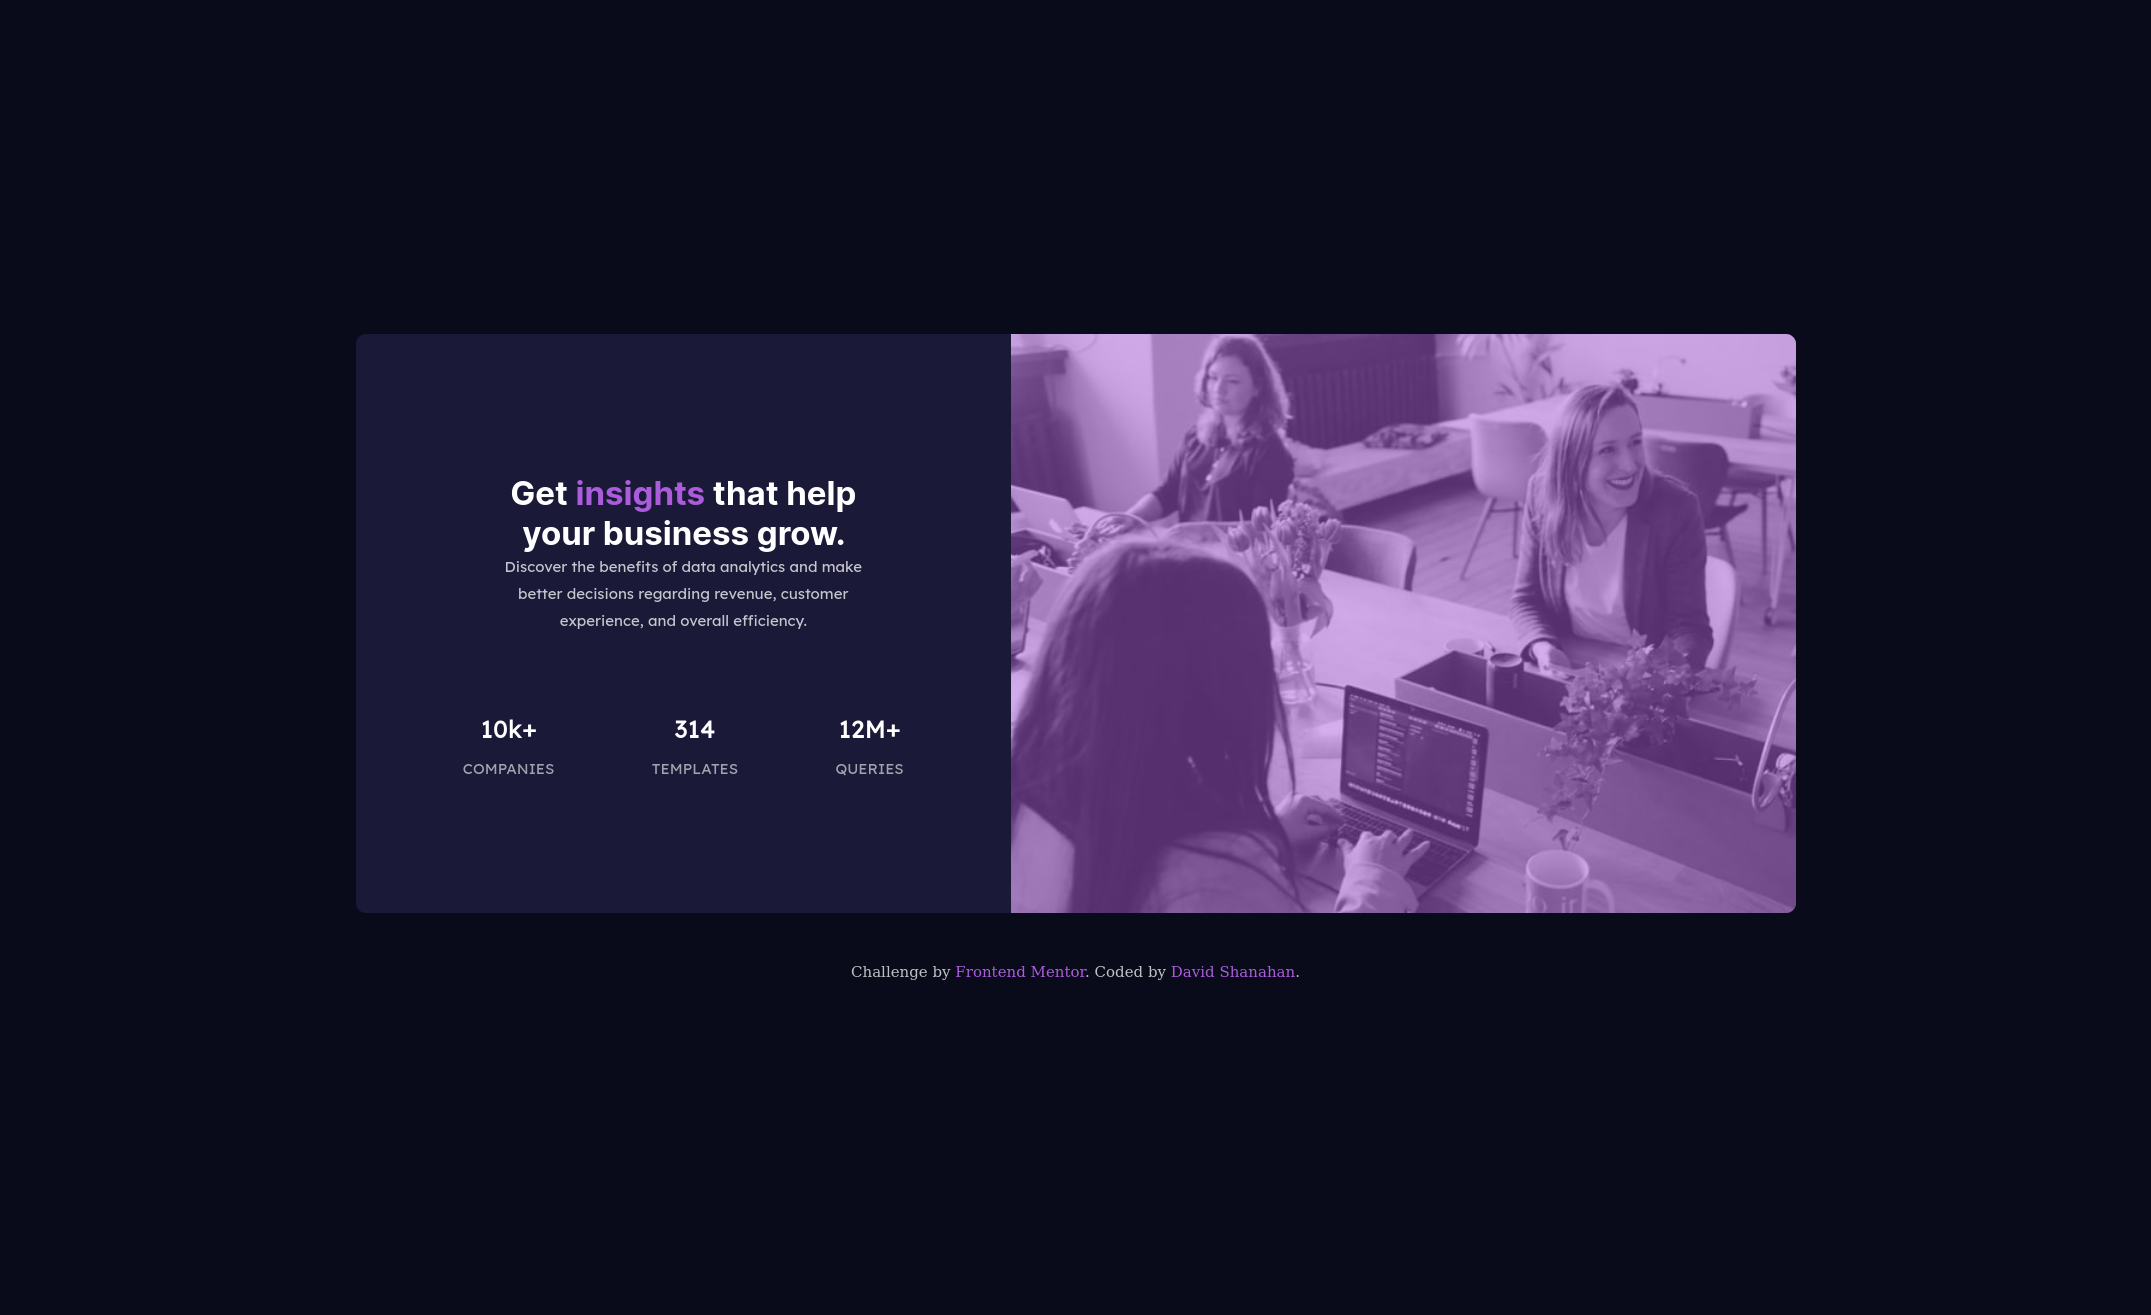
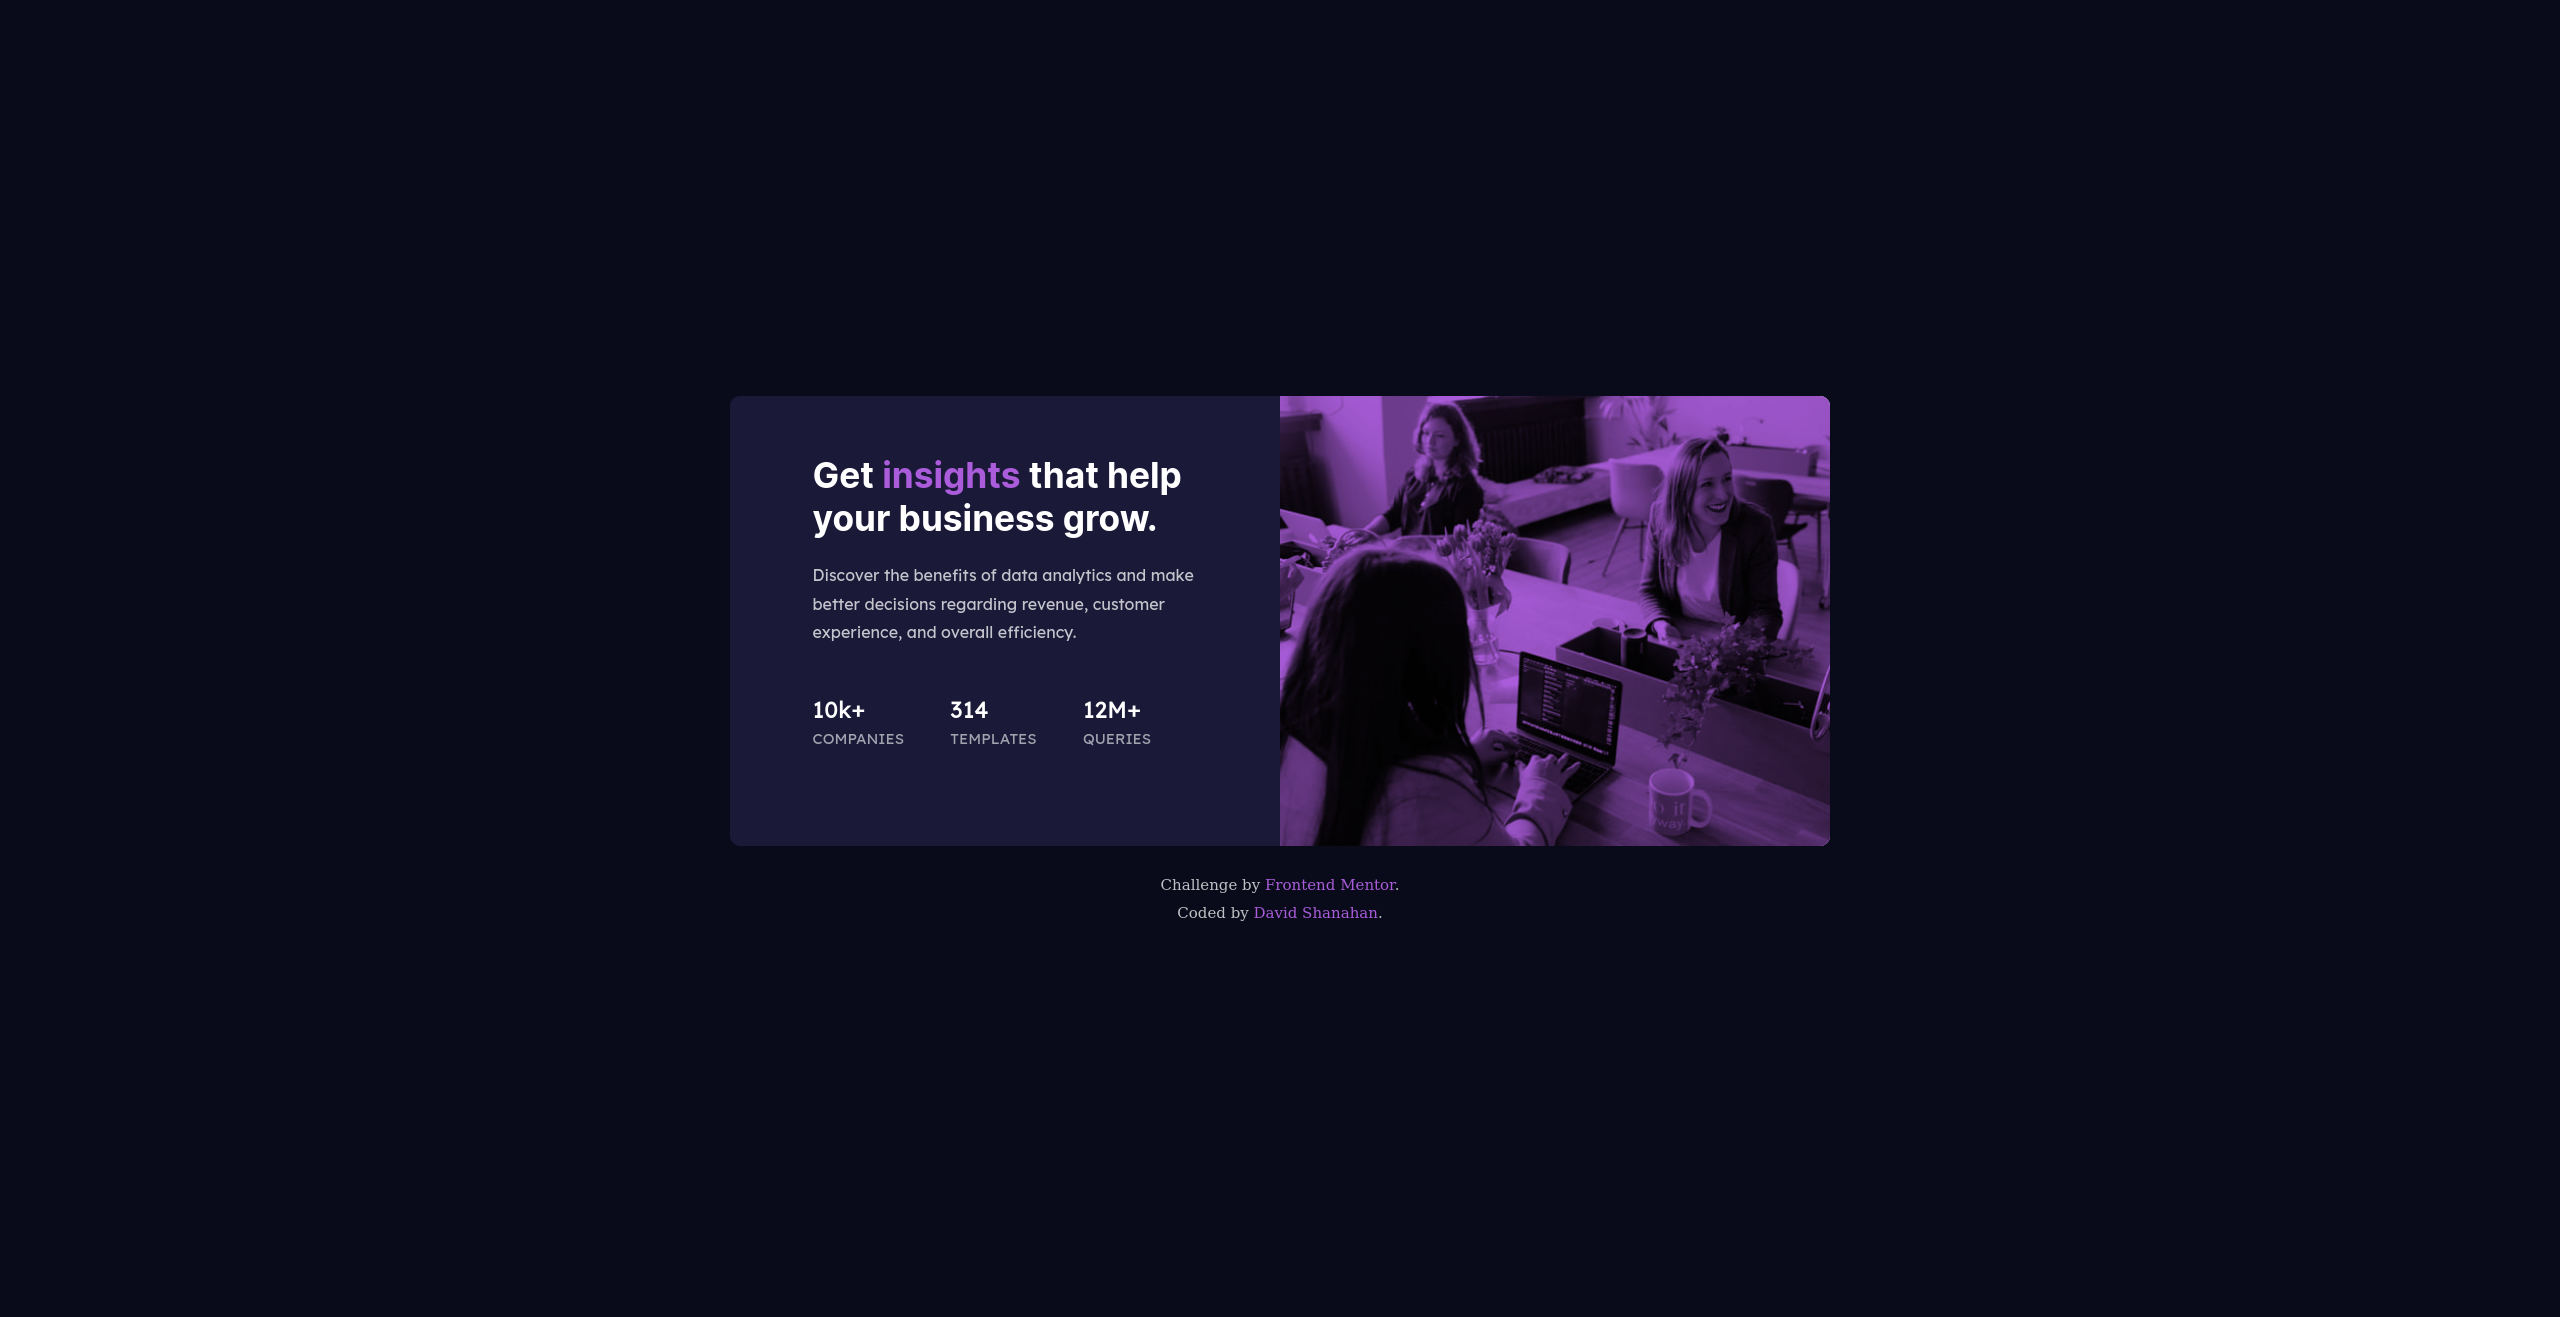
I implemented a more elegant method for the background-color overlay. I also did some reconfiguration of the card dimensions to fit the target design.

Changed region(s): [[0.1557, 0.2494, 0.841, 0.7483], [0.3738, 0.53, 0.4361, 0.5924]]

diff --git a/css/main.css b/css/main.css
@@ -16,24 +16,24 @@
 
 }
 
-body {
+* {
     padding: 0;
     margin: 0;
     box-sizing: border-box;
+}
 
-
+body {
+    
     background-color: var(--main-background);
-
     font-size: 15px;
     color: var(--main-paragraph);
-
 }
 
 #container {
     height: 100vh;
     /* width: 375px; */
     display: flex;
-    flex-flow: column nowrap;
+    flex-flow: column;
     justify-content: center;
     align-items: center;
 
@@ -41,52 +41,48 @@ body {
 
 .card {
     display: flex;
-    flex-flow: nowrap column;
-    /* justify-content: space-between; */
+    flex-flow: column;
     align-items: center;
 
-    height: 956px;
-    width: 375px;
+    height: 780px;
+    width: 330px;
     margin-bottom: 30px;
-
 
     background-color: var(--card-background);
     border-radius: 10px;
 }
 
 
-.card-image-container {
-    /* height: 100%; */
-    width: 100%;
-    background-color: var(--accent);
-    border-radius: 10px 10px 0 0;
-}
-
 #card-image {
-    height: 100%;
+    flex: 0 0 240px;
     width: 100%;
-    opacity: 0.5;
+
     border-radius: 10px 10px 0 0;
 
+    background-blend-mode: multiply;
+    background-color: var(--accent);
+    background-image: url(/images/image-header-mobile.jpg);
+    background-size: cover;
 }
 
 #card-components {
     display: flex;
     flex-flow: nowrap column;
-    justify-content: space-between;
+    justify-content: center;
+    /* gap: 20px; */
     height: 100%;
+    width: 100%;
 }
 
 #card-main-section {
-    /* height: 100%; */
-    padding: 20px;
+    flex: 1 0 auto;
 }
 
 .card-header {
     color: var(--main-heading);
     font-family: 'Inter', sans-serif;
     font-weight: 700;
-    font-size: 2.2em;
+    font-size: 1.8rem;
 
     padding: 30px 15px 15px 15px;
     text-align: center;
@@ -100,27 +96,30 @@ body {
     color: var(--main-paragraph) ;
     font-family: 'Lexend Deca', sans-serif;
     text-align: center;
-    padding: 0px 35px;
-    font-size: 1em;
+    padding: 0px 25px;
+    font-size: 1rem;
     line-height: 1.8em;
 }
 
 .card-stat-section {
-    /* height: 200px; */
-    padding: 20px;
+    flex: 2 0 auto;
+    display: flex;
+    flex-flow: nowrap column;
+    justify-content: center;
 }
 
 .card-stat {
-    padding: 10px;
     text-align: center;
+    flex: 1 0 auto;
 }
 
 .card-stat-heading {
     color: var(--main-heading);
     font-family: 'Lexend Deca', sans-serif;
     font-weight: bold;
-    font-size: 1.6em;
+    font-size: 1.4rem;
     text-align: center;
+    margin-bottom: 5px;
 }
 
 .card-stat-text {
@@ -129,6 +128,13 @@ body {
     font-family: 'Lexend Deca', sans-serif;
 }
 
+.attribution {
+    text-align: center;
+}
+
+.attribution br {
+    margin-bottom: 10px;
+}
 
 .attribute-link {
     text-decoration: none;
@@ -141,75 +147,68 @@ body {
 
 
 @media screen and (min-width: 1440px) {
-    /* body {
-        background-color: burlywood;
-    } */
-
 
     .card {
-        display: flex;
         flex-flow: nowrap row-reverse;
-        /* justify-content: space-between; */
-        align-items: center;
     
-        height: 800px;
-        width: 1440px;
-        margin-bottom: 50px;
+        height: 450px;
+        width: 1100px;
 
-        background-color: var(--card-background);
-        border-radius: 10px;
-        flex: 0 1 0%;
     }
 
-    .card-image-container {
-        height: 100%;
-        /* width: 100%; */
-        background-color: var(--accent);
-        border-radius: 0 10px 10px 0;
-    }
-    
     #card-image {
-        /* background-image: url("../images/image-header-mobile.jpg"); */
-        background-repeat: no-repeat;
-        background-position: center;
-        background-size: cover;
+        flex: 0 0 50%;
         height: 100%;
-        width: 100%;
-        opacity: 0.5;
         border-radius: 0 10px 10px 0;
-    
+        background-image: url("../images/image-header-desktop.jpg");
     }
 
-
-    
 
     #card-components {
-        display: flex;
         flex-flow: nowrap column;
         justify-content: center;
+        align-items: center;
         height: 100%;
     }
 
     #card-main-section {
-        /* height: 100%; */
-        padding: 50px;
+        flex: 0 0 300px;
+        display: flex;
+        flex-flow: column;
+        justify-content: center;
+        align-items: center;
     }
 
     .card-header {
-   
-        padding: 0px 80px;
+        width: 70%;
+        text-align: start;
+        font-size: 2.2rem;
+        padding: 0;
+        padding-top: 10px;
+        margin-bottom: 20px;
 
     }
     
    
     .card-header-text {
-        padding: 0px 80px;
+        width: 70%;
+        text-align: start;
+        padding: 0;
     }
     
 
     .card-stat-section {
-        display: flex;
-        justify-content: space-evenly;
+        width: 70%;
+        height: 150px;
+        flex-flow: row;
+        align-items: stretch;
     }
 
+    .card-stat-heading {
+        text-align: start;
+    }
+
+    .card-stat-text {
+        text-align: start;
+    }
 }

diff --git a/index.html b/index.html
@@ -15,11 +15,11 @@
 
   <div id="container">
     <main class="card">
-      <section class="card-image-container">
-        <img id="card-image" src="images/image-header-mobile.jpg" alt="">
-      </section>
+
+      <div id="card-image"></div>
 
       <div id="card-components">
+
         <section id="card-main-section">
           <div class="card-header">
             Get <span id="header-colour">insights</span> that help your business grow.
@@ -28,6 +28,7 @@
             Discover the benefits of data analytics and make better decisions regarding revenue, customer experience, and overall efficiency.
           </div>
         </section>
+
         <section class="card-stat-section">
           <div class="card-stat">
             <div class="card-stat-heading">
@@ -54,6 +55,7 @@
             </p>
           </div>
         </section>
+
       </div>
       
 
@@ -61,7 +63,7 @@
     
   
     <div class="attribution">
-      Challenge by <a class="attribute-link" href="https://www.frontendmentor.io?ref=challenge" target="_blank">Frontend Mentor</a>. 
+      Challenge by <a class="attribute-link" href="https://www.frontendmentor.io?ref=challenge" target="_blank">Frontend Mentor</a>. <br>
       Coded by <a class="attribute-link" href="https://github.com/ds0-sec">David Shanahan</a>.
     </div>
   </div>

diff --git a/README.md b/README.md
@@ -73,6 +73,25 @@ How to create a simple overlay background over an image.
 }
 ```
 
+
+Update: Thanks to [@brasspetals](https://www.frontendmentor.io/profile/brasspetals) I discovered out a more elegant way to achieve the background color overlay on the background image:
+
+```html
+  <div id="card-image"></div>
+```
+```css
+  #card-image {
+      flex: 0 0 240px;
+      width: 100%;
+
+      border-radius: 10px 10px 0 0;
+
+      background-blend-mode: multiply;
+      background-color: var(--accent);
+      background-image: url(/images/image-header-mobile.jpg);
+      background-size: cover;
+  }
+```
 ## Author
 
 - Website - David Shanahan (https://vulnerable.computer)
